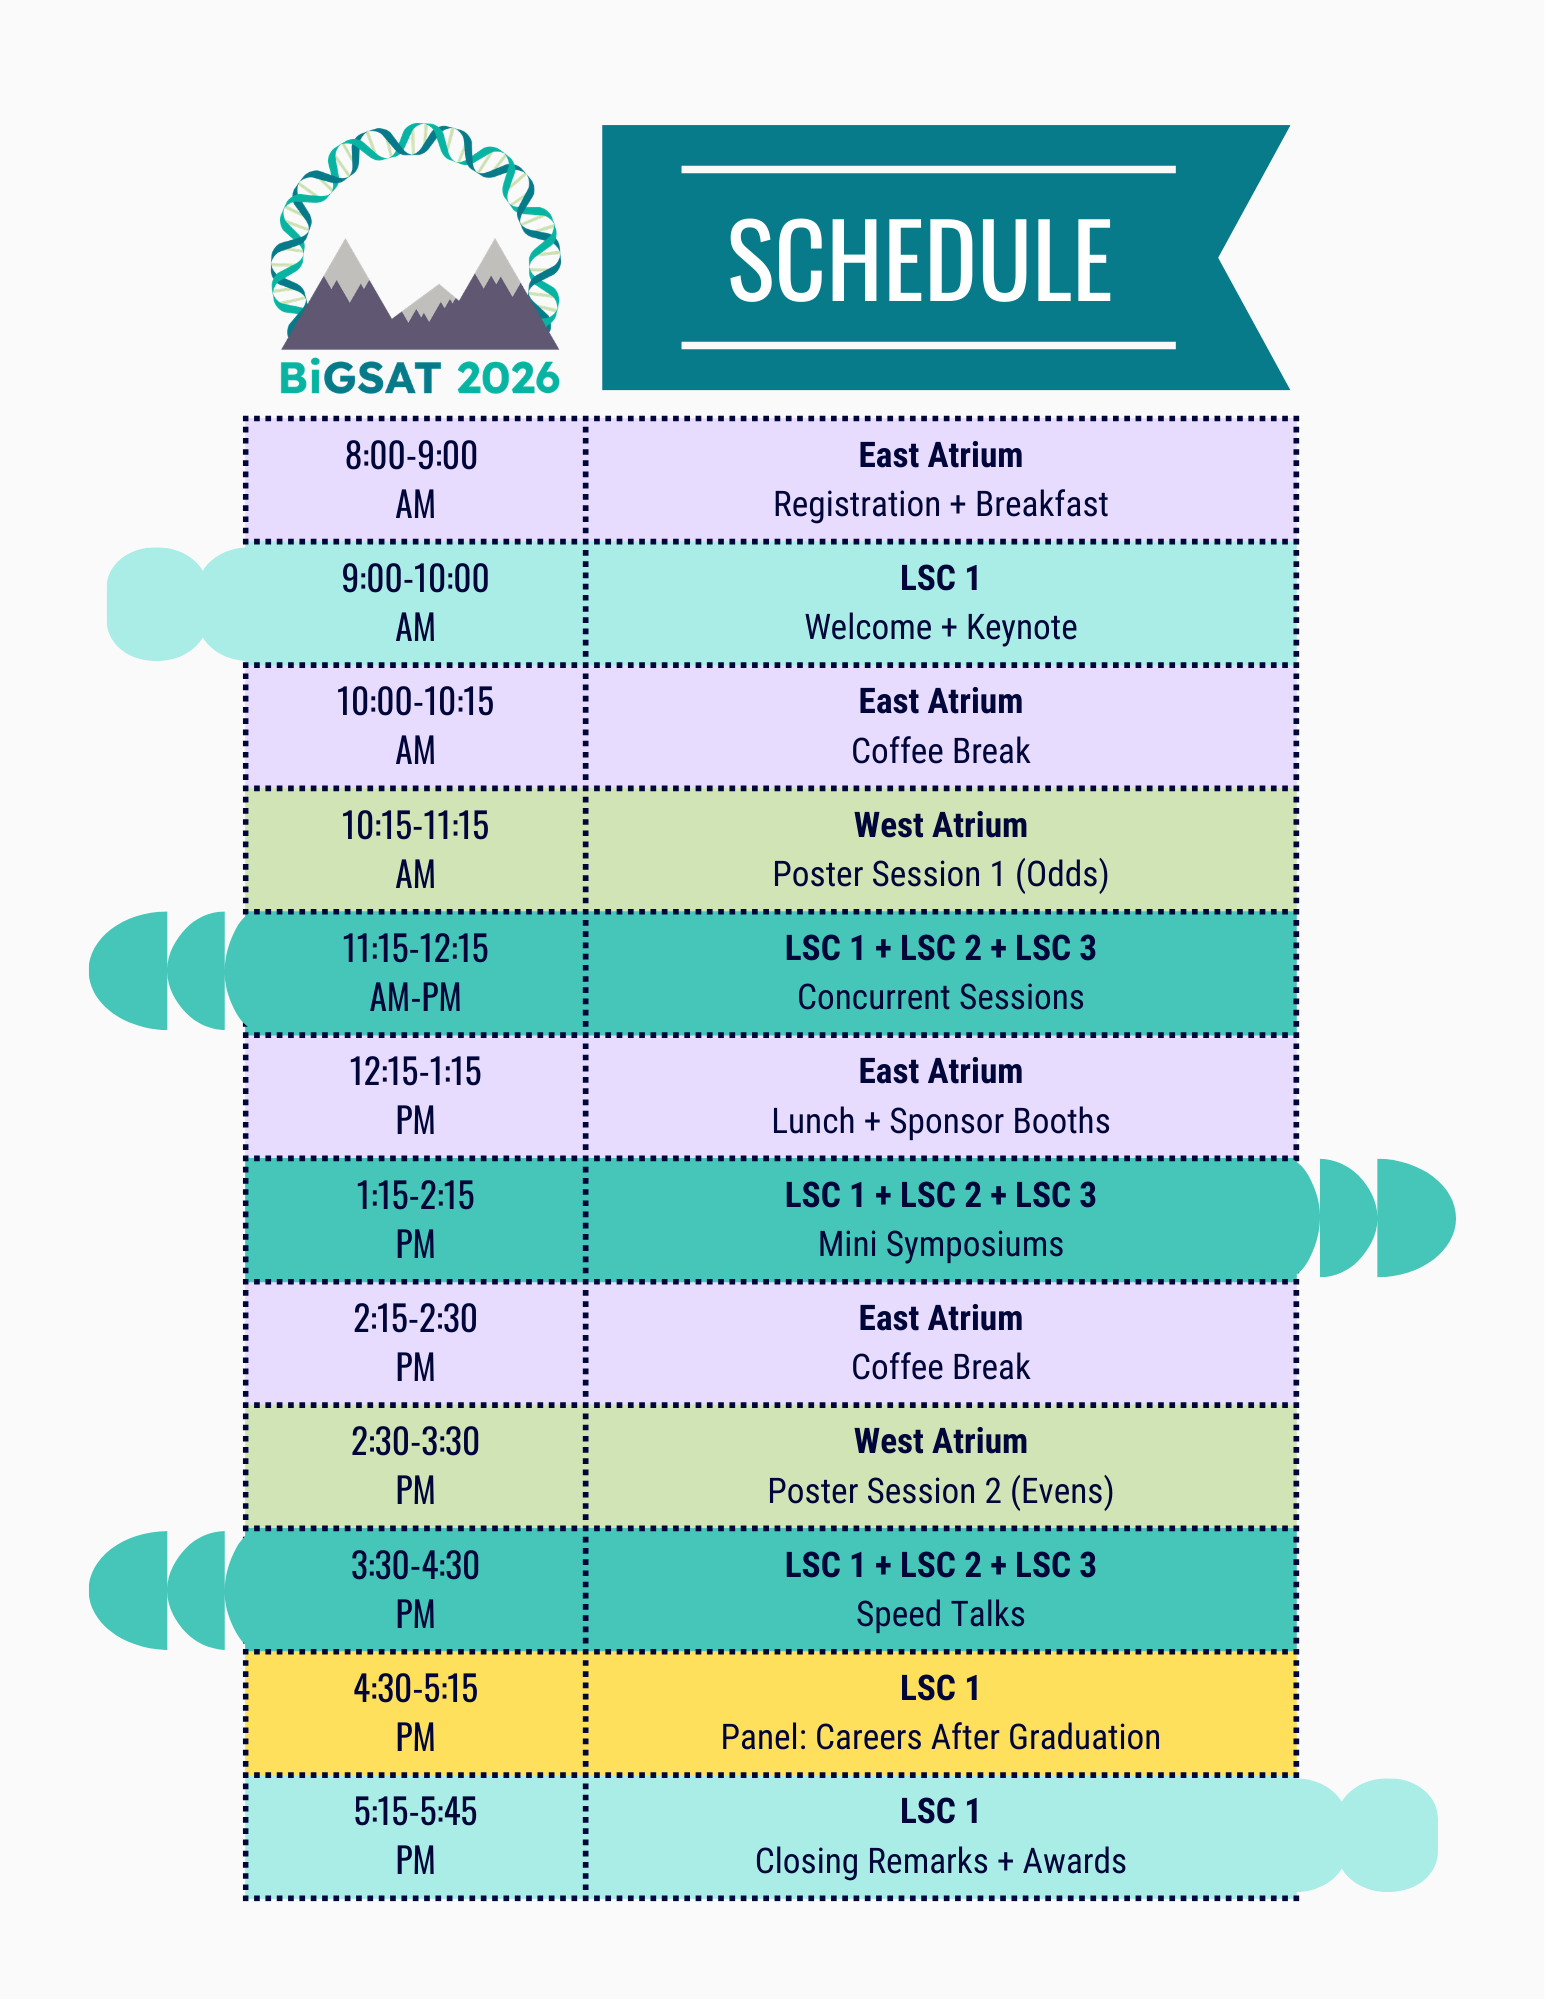
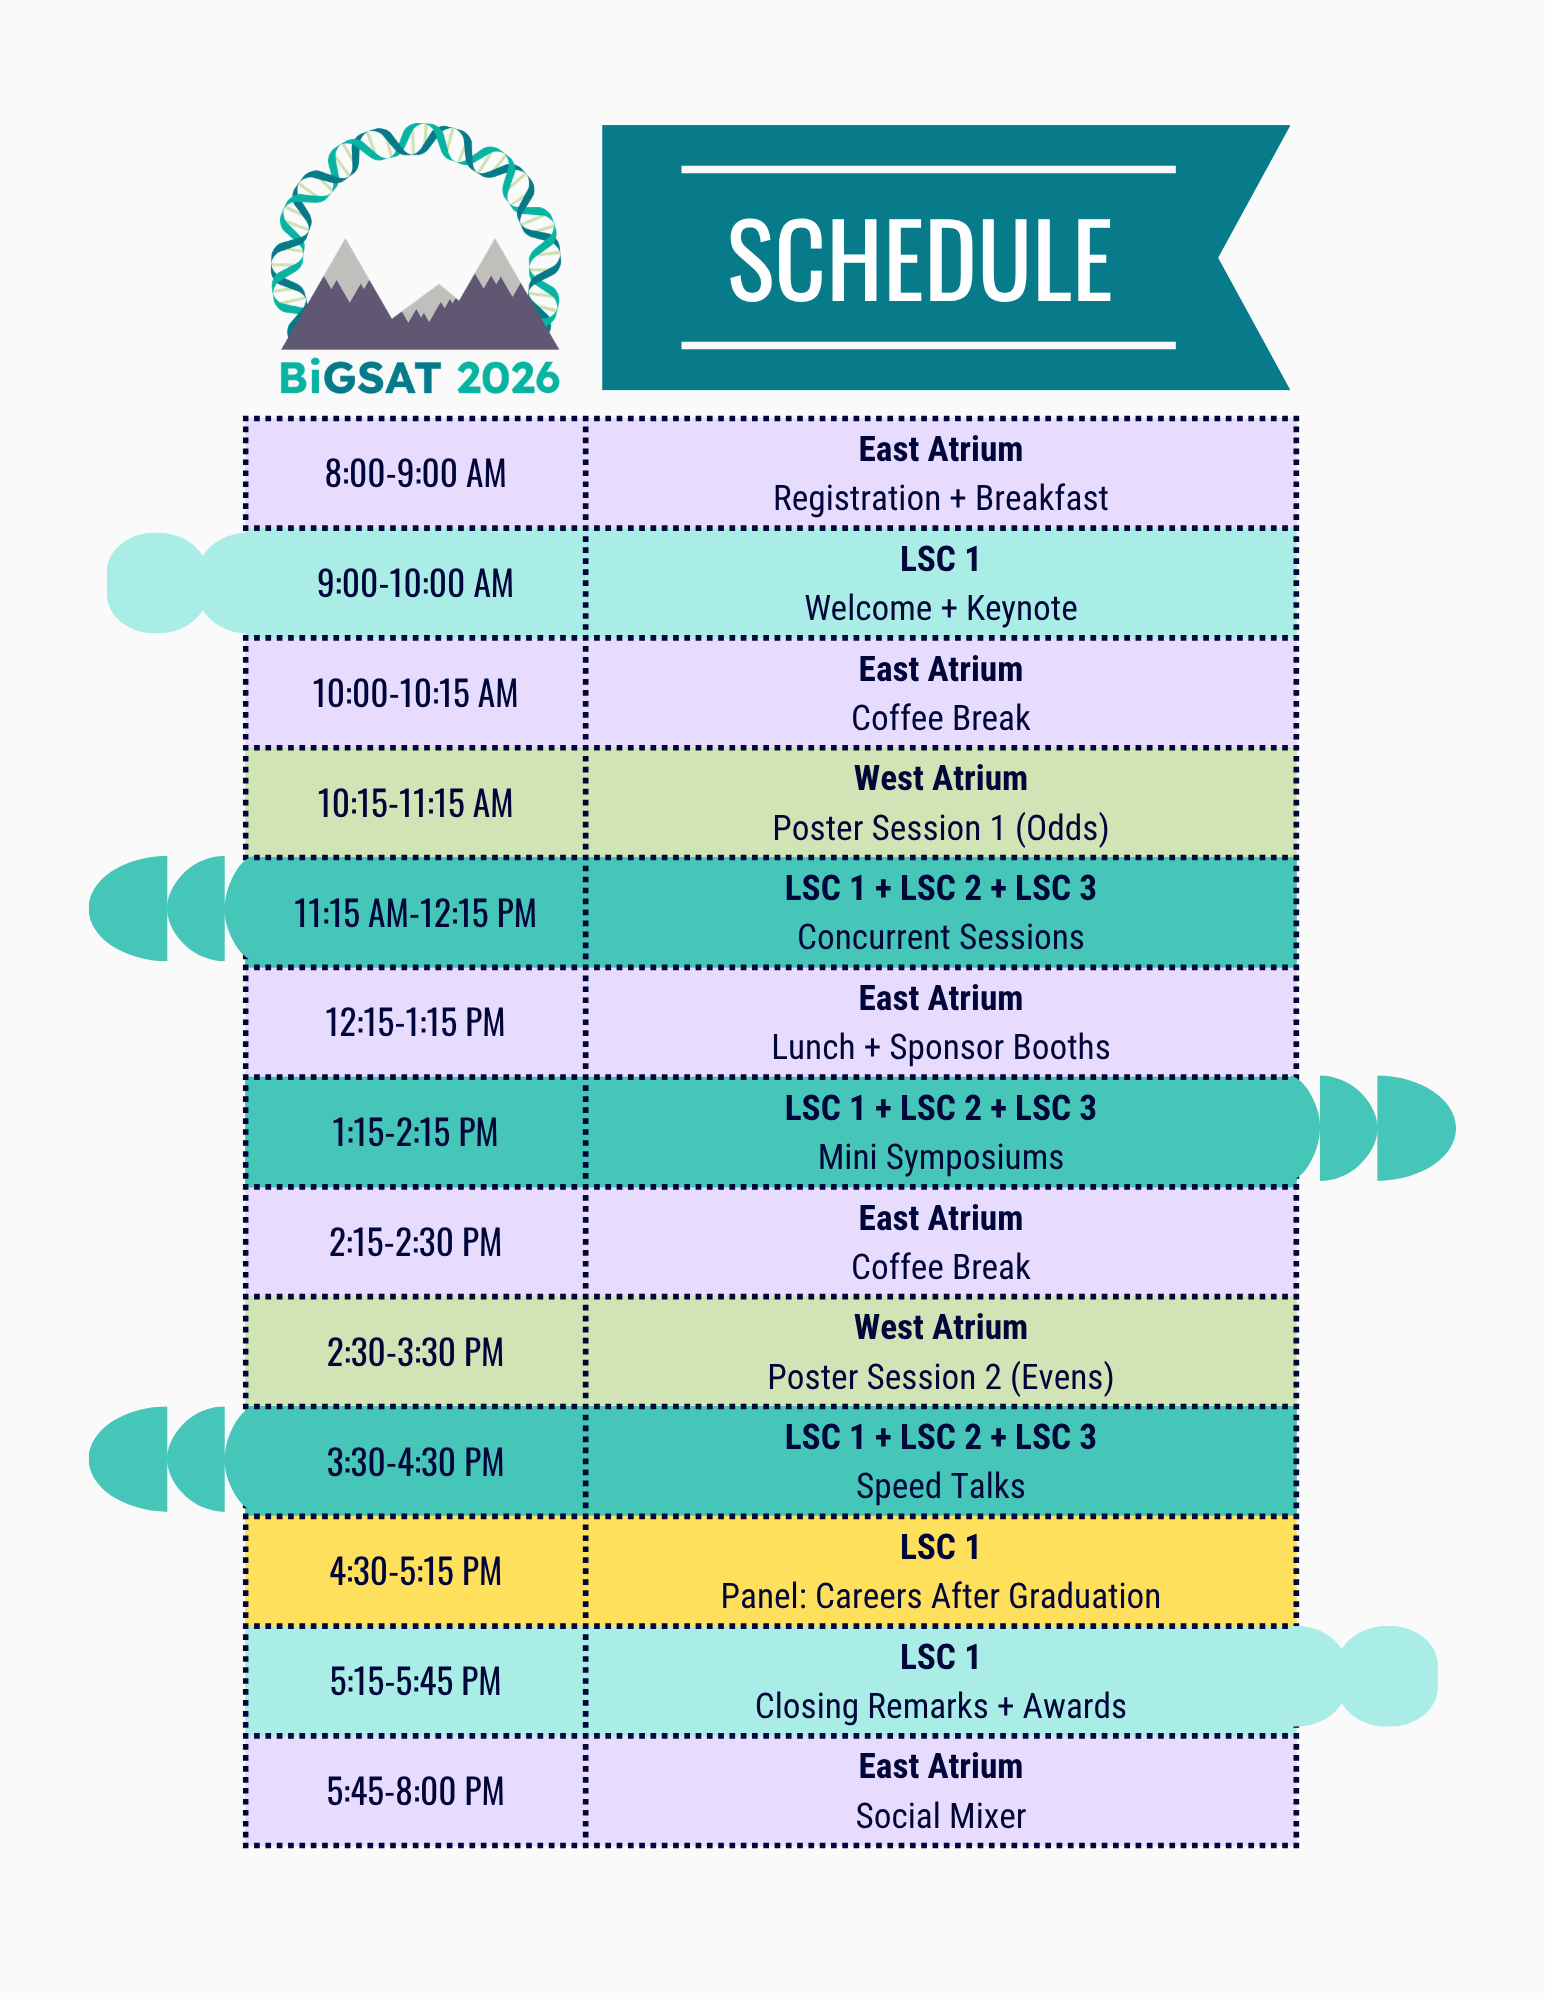
add sponsor and keynote abstract

diff --git a/conference/index.html b/conference/index.html
@@ -56,6 +56,8 @@
     <h1>
       BiGSAT 2026 Keynote
     </h1>
+    
+    <h3>Reading developmental history from X-chromosome mosaicism</h3>
 
     <img src="assets/speakers/gillis.png" style="width:40%">
 
@@ -64,10 +66,15 @@
       Associate Professor of Integrative Physiology<br>
       University of Toronto
     </h3>
+
+    <p>
+      X chromosome inactivation (XCI) balances sex chromosome dosage by randomly silencing one X-chromosome in each cell in the early embryo.  Which chromosome is silenced is then clonally inherited through all subsequent cell divisions.  This leaves each female mammal with a stable mosaic of cells expressing either the maternal or paternal X haplotype. This variability is propagated from early development and persists into adulthood.  In this work, we discuss how this variability can be decoded across both individuals and cells to reveal developmental history and regulatory impacts. At the population level, the distribution of XCI skew across individuals reflects the number of cells present at the time of inactivation: more cells at that moment means less variance in the ratio among adults. By fitting models to population-scale XCI distributions across thousands of individuals and ten mammalian species, we show that embryonic cell counts at the time of lineage specification can be estimated from the variance itself, treating noise as the signal rather than the background. At the cellular level, the same mosaic structure allows us to perform within-individual comparisons that are unavailable through conventional approaches. Inferring X haplotype identity in single cells allows direct comparison of cells carrying different haplotypes within the same individual, holding genetic background and environment constant. This reveals structured patterns of regulatory variation that between-individual comparisons cannot resolve. Together, these research themes position XCI as a lens on both developmental history and regulatory variation, with the distribution of a stochastic mark across cells serving as a quantitative record of early decisions that cannot be directly observed.
+    </p>
   
     <p>
       Dr. Gillis is an expert in integrated neurophysiology at the Donnelly Centre in the University of Toronto. His <a href="https://thedonnellycentre.utoronto.ca/faculty/jesse-gillis" target="_blank">lab</a> focuses on characterizing the flow of information from cellular gene networks to whole organism phenotypes across species using functional genomics data, focused primarily on the brain.
     </p>
+    
   </div>
 
   <div id="Faculty Talks" class="tabcontent">

diff --git a/registration/index.html b/registration/index.html
@@ -49,8 +49,8 @@
 
   <h2>Poster Submission</h2>
   <h3>Poster Submission Deadline: March 31st, 2026</h3>
-  <p>Posters must be submitted in PDF format, portrait orientation, and be 48 inches x 36 inches (height x width). The BiGSAT organizing committee will not be responsible for formatting posters submitted with incorrect dimensions. <a href="assets/docs/poster_template.pptx" download>Download poster template in pptx.</a></p>
-  <a href="https://forms.gle/JxquqrwEWwJNJ7Ub8" target="_blank">Click here to submit your poster.</a><br>
+  <p>Posters must be submitted in PDF format, portrait orientation, and be 48 inches x 36 inches (height x width). Self-brought posters should not exceed 48 inches x 45 inches (height x width). The BiGSAT organizing committee will not be responsible for formatting posters submitted with incorrect dimensions. <a href="assets/docs/poster_template.pptx" download>Download poster template in pptx.</a></p>
+  <h3><a href="https://forms.gle/JxquqrwEWwJNJ7Ub8" target="_blank">-> Click here to submit your poster <-</a></h3>
 
 </body>
 

diff --git a/index.html b/index.html
@@ -146,6 +146,12 @@
         <img src="assets/sponsors/GSATLogo.png" alt="UBC Genome Science and Technology Graduate Program">
       </a>
     </div>
+    <div class="sponsors">
+      <div class="sponsor-row">
+        <a href="https://langara.ca/" target="_blank">
+          <img src="assets/sponsors/LangaraLogo.png" alt="Langara Bioinformatics Program">
+        </a>
+      </div>
     <div class="sponsor-row">
       <a href="https://alamarbio.com/" target="_blank">
         <img src="assets/sponsors/AlamarBiosciencesLogo.png" alt="Alamar Biosciences, Inc.">
